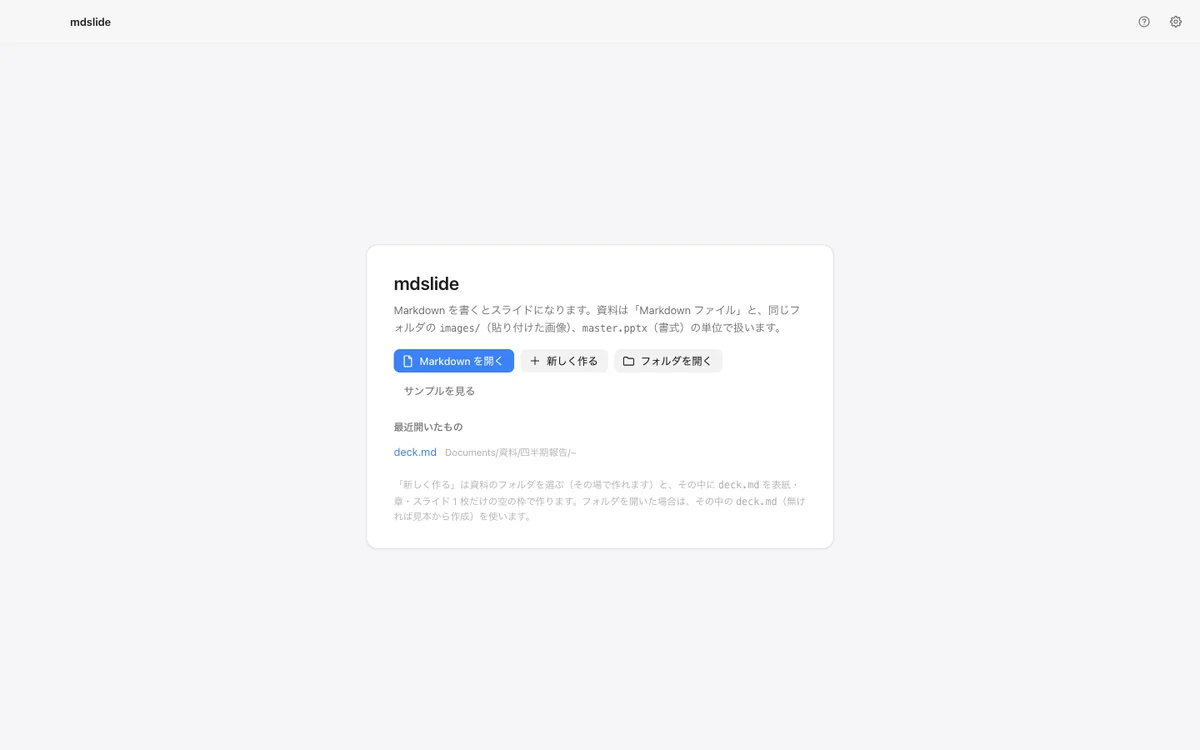
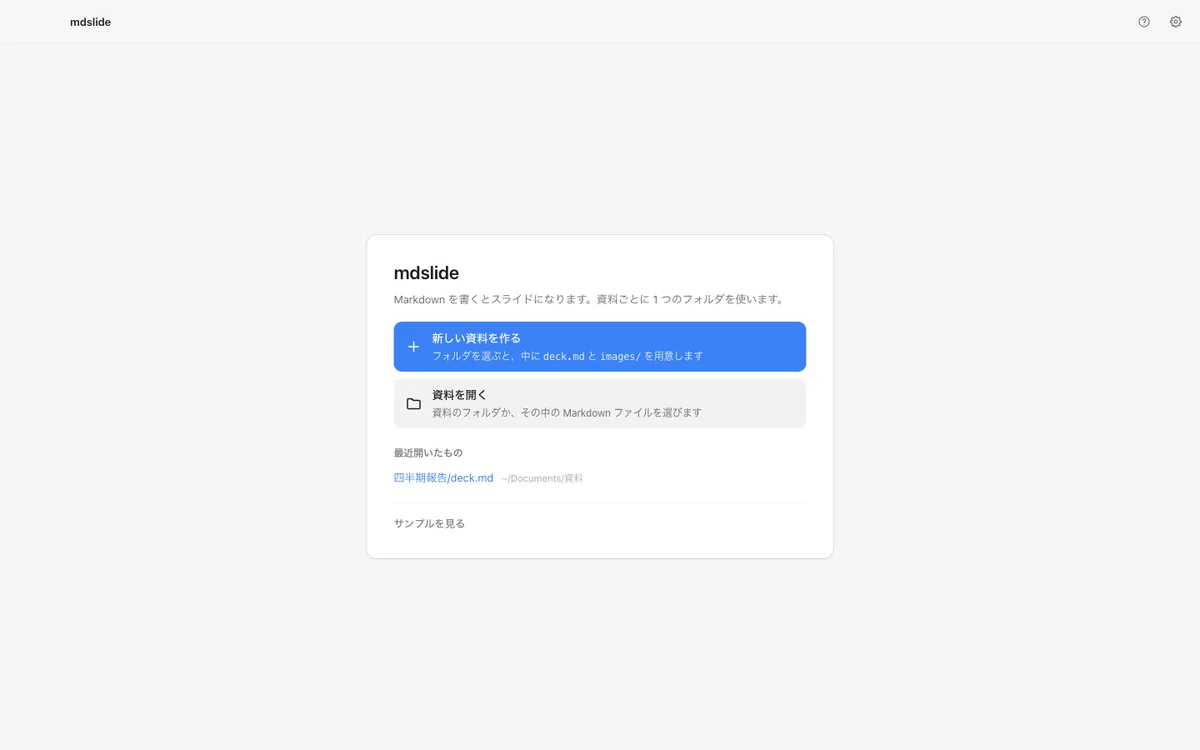
docs: 起動画面の変更に合わせて ADR-0029 を足し、README・紹介ページ・CLAUDE.md と画像を直す
Claude-Session: https://claude.ai/code/session_01DMWyYwaiUvJDMh6FZkBcms

Changed region(s): [[0.3083, 0.3373, 0.6783, 0.7053]]

diff --git a/.github/pages/index.html b/.github/pages/index.html
@@ -195,8 +195,8 @@
                 <div class="relative aspect-[16/10] bg-muted/40">
                   <div data-track class="flex h-full snap-x snap-mandatory overflow-x-auto scroll-smooth" tabindex="0" aria-label="スクリーンショット。左右の矢印キーかスワイプで切り替えます">
                     <figure class="h-full w-full shrink-0 snap-center" role="group" aria-roledescription="場面" aria-label="1 / 7">
-                      <img src="docs/media/tour/01-start.webp" width="1200" height="750" alt="mdslide の起動画面。資料を開くボタンと、最近開いた資料の一覧" class="h-full w-full object-cover object-top" />
-                      <figcaption class="sr-only" data-title="起動画面から始める" data-text="「Markdown を開く」で手元の資料を開き、「新しく作る」でフォルダを選んで空の資料を用意します。前回の資料は「最近開いたもの」からすぐに開けます。">起動画面から始める。「Markdown を開く」で手元の資料を開き、「新しく作る」でフォルダを選んで空の資料を用意します。前回の資料は「最近開いたもの」からすぐに開けます。</figcaption>
+                      <img src="docs/media/tour/01-start.webp" width="1200" height="750" alt="mdslide の起動画面。新しい資料を作るボタンと資料を開くボタン、最近開いた資料の一覧" class="h-full w-full object-cover object-top" />
+                      <figcaption class="sr-only" data-title="起動画面から始める" data-text="「新しい資料を作る」でフォルダを選んで空の資料を用意し、「資料を開く」で手元の資料をフォルダか Markdown ファイルから開きます。前回の資料は「最近開いたもの」からすぐに開けます。">起動画面から始める。「新しい資料を作る」でフォルダを選んで空の資料を用意し、「資料を開く」で手元の資料をフォルダか Markdown ファイルから開きます。前回の資料は「最近開いたもの」からすぐに開けます。</figcaption>
                     </figure>
                     <figure class="h-full w-full shrink-0 snap-center" role="group" aria-roledescription="場面" aria-label="2 / 7">
                       <img src="docs/media/tour/02-open.webp" width="1200" height="750" alt="資料を開いた画面。左にサムネイル、中央にマスターの装飾つきのプレビュー、右に Markdown のエディタ" class="h-full w-full object-cover object-top" loading="lazy" />
@@ -232,7 +232,7 @@
               <div class="max-w-3xl" aria-live="polite">
                 <p class="font-mono text-xs text-muted-foreground"><span data-tour-index>1</span> / 7</p>
                 <h3 class="mt-1 text-lg font-semibold tracking-tight" data-tour-title>起動画面から始める</h3>
-                <p class="mt-2 text-sm leading-6 text-muted-foreground" data-tour-text>「Markdown を開く」で手元の資料を開き、「新しく作る」でフォルダを選んで空の資料を用意します。前回の資料は「最近開いたもの」からすぐに開けます。</p>
+                <p class="mt-2 text-sm leading-6 text-muted-foreground" data-tour-text>「新しい資料を作る」でフォルダを選んで空の資料を用意し、「資料を開く」で手元の資料をフォルダか Markdown ファイルから開きます。前回の資料は「最近開いたもの」からすぐに開けます。</p>
               </div>
               <div class="flex shrink-0 items-center md:pt-5" aria-label="場面を選ぶ">
                 <button type="button" data-dot aria-label="1. 起動画面から始める" aria-current="true"><span></span></button>

diff --git a/docs/adr/0029-start-screen-create-or-open.md b/docs/adr/0029-start-screen-create-or-open.md
@@ -1,0 +1,21 @@
+# ADR-0029 起動画面は「作る」と「開く」の 2 つにし、資料の無いフォルダは空の枠で始める
+
+## 状況
+- 起動画面は「Markdown を開く」（青い主ボタン）「新しく作る」「フォルダを開く」「サンプルを見る」を横に並べていた（ADR-0013）。ADR-0015 で新規作成が「フォルダを選んで `deck.md` を作る」になり、資料の単位はフォルダだと明確になったが、主ボタンは任意の Markdown ファイルを開く操作のままだった。
+- 「Markdown を開く」と「フォルダを開く」はどちらも既存の資料を開く操作で、違いが画面から分からず、ボタンの下に長い注記を置いて説明していた。
+- 資料のファイルが無いフォルダを開くと、そのとき画面にある文書（起動直後は組み込みサンプル、別の資料を開いていればその中身）が書き込まれた。「新しく作る」は空の枠なので、作る経路が 2 つあって結果が違い、サンプルを黙って出さない方針（ADR-0013）にも反していた。
+- 最近開いたものはファイル名を見出しにしていたため、ほとんどが `deck.md` になって見分けられなかった。パスは `direction: rtl` の副作用で、先頭の `/` や `~/` が末尾に回って表示されていた。
+
+## 決定
+1. 起動画面の操作は「新しい資料を作る」（主ボタン）と「資料を開く」の 2 つにし、それぞれ何が起きるかを 1 行で添える。注記は無くし、「サンプルを見る」は区切り線の下に控えめに置く。ブラウザ版は作る経路が無いので「フォルダを開く」を主ボタンにする。
+2. 「資料を開く」は 1 つのダイアログで、資料のフォルダかその中の Markdown ファイルを選ぶ（`dialog:openDeck`。macOS は `openFile` と `openDirectory` を併用し、他の OS はファイルだけ）。フォルダなら `deck.md`、ファイルならその名前で開く。戻り値はコマンドライン引数と同じ `{ root, deckFile }` で、main の同じ判定（`deckEntry`）を通す。`dialog:openMarkdown` は削除し、ツールバーの開くボタンも同じ操作にする。
+3. 資料に入るとき（開く・作る・コマンドライン引数）に資料のファイルが無ければ、「新しい資料を作る」と同じ空の枠（`newDeckTemplate`。題はファイル名かフォルダ名）で作る。開いている資料のファイルが外で消えた後の再読み込みは、従来どおり画面の文書を書き戻す（作業中の内容を空の枠で置き換えない）。
+4. 最近開いたものはツールバーと同じ `フォルダ名/ファイル名` を見出しにし、フォルダの場所を添える。パスは `<bdi>` で囲み、表示の向きが崩れないようにする。
+
+## 結果
+- 主ボタンが「資料 = フォルダ」の前提と一致し、選択肢が 3 つから 2 つに減った。任意の名前の Markdown を開く経路（ADR-0015 決定 4）は「資料を開く」の中に残る。
+- 組み込みサンプルが資料フォルダに書き込まれることは無くなった。サンプルは「サンプルを見る」で見るだけになる。E2E はサンプルの章・スライド名を前提にしているため、テスト側でサンプルの `deck.md` をフォルダに置いてから開く。
+- ADR-0013 決定 1 の起動画面の項目と、決定 2 の「フォルダを開いたときの雛形は組み込みサンプル」をこの ADR が置き換える。ADR-0015 決定 4 の「Markdown を開く」は「資料を開く」に含まれる。
+
+## 状態
+- 2026-09-14 実装。
